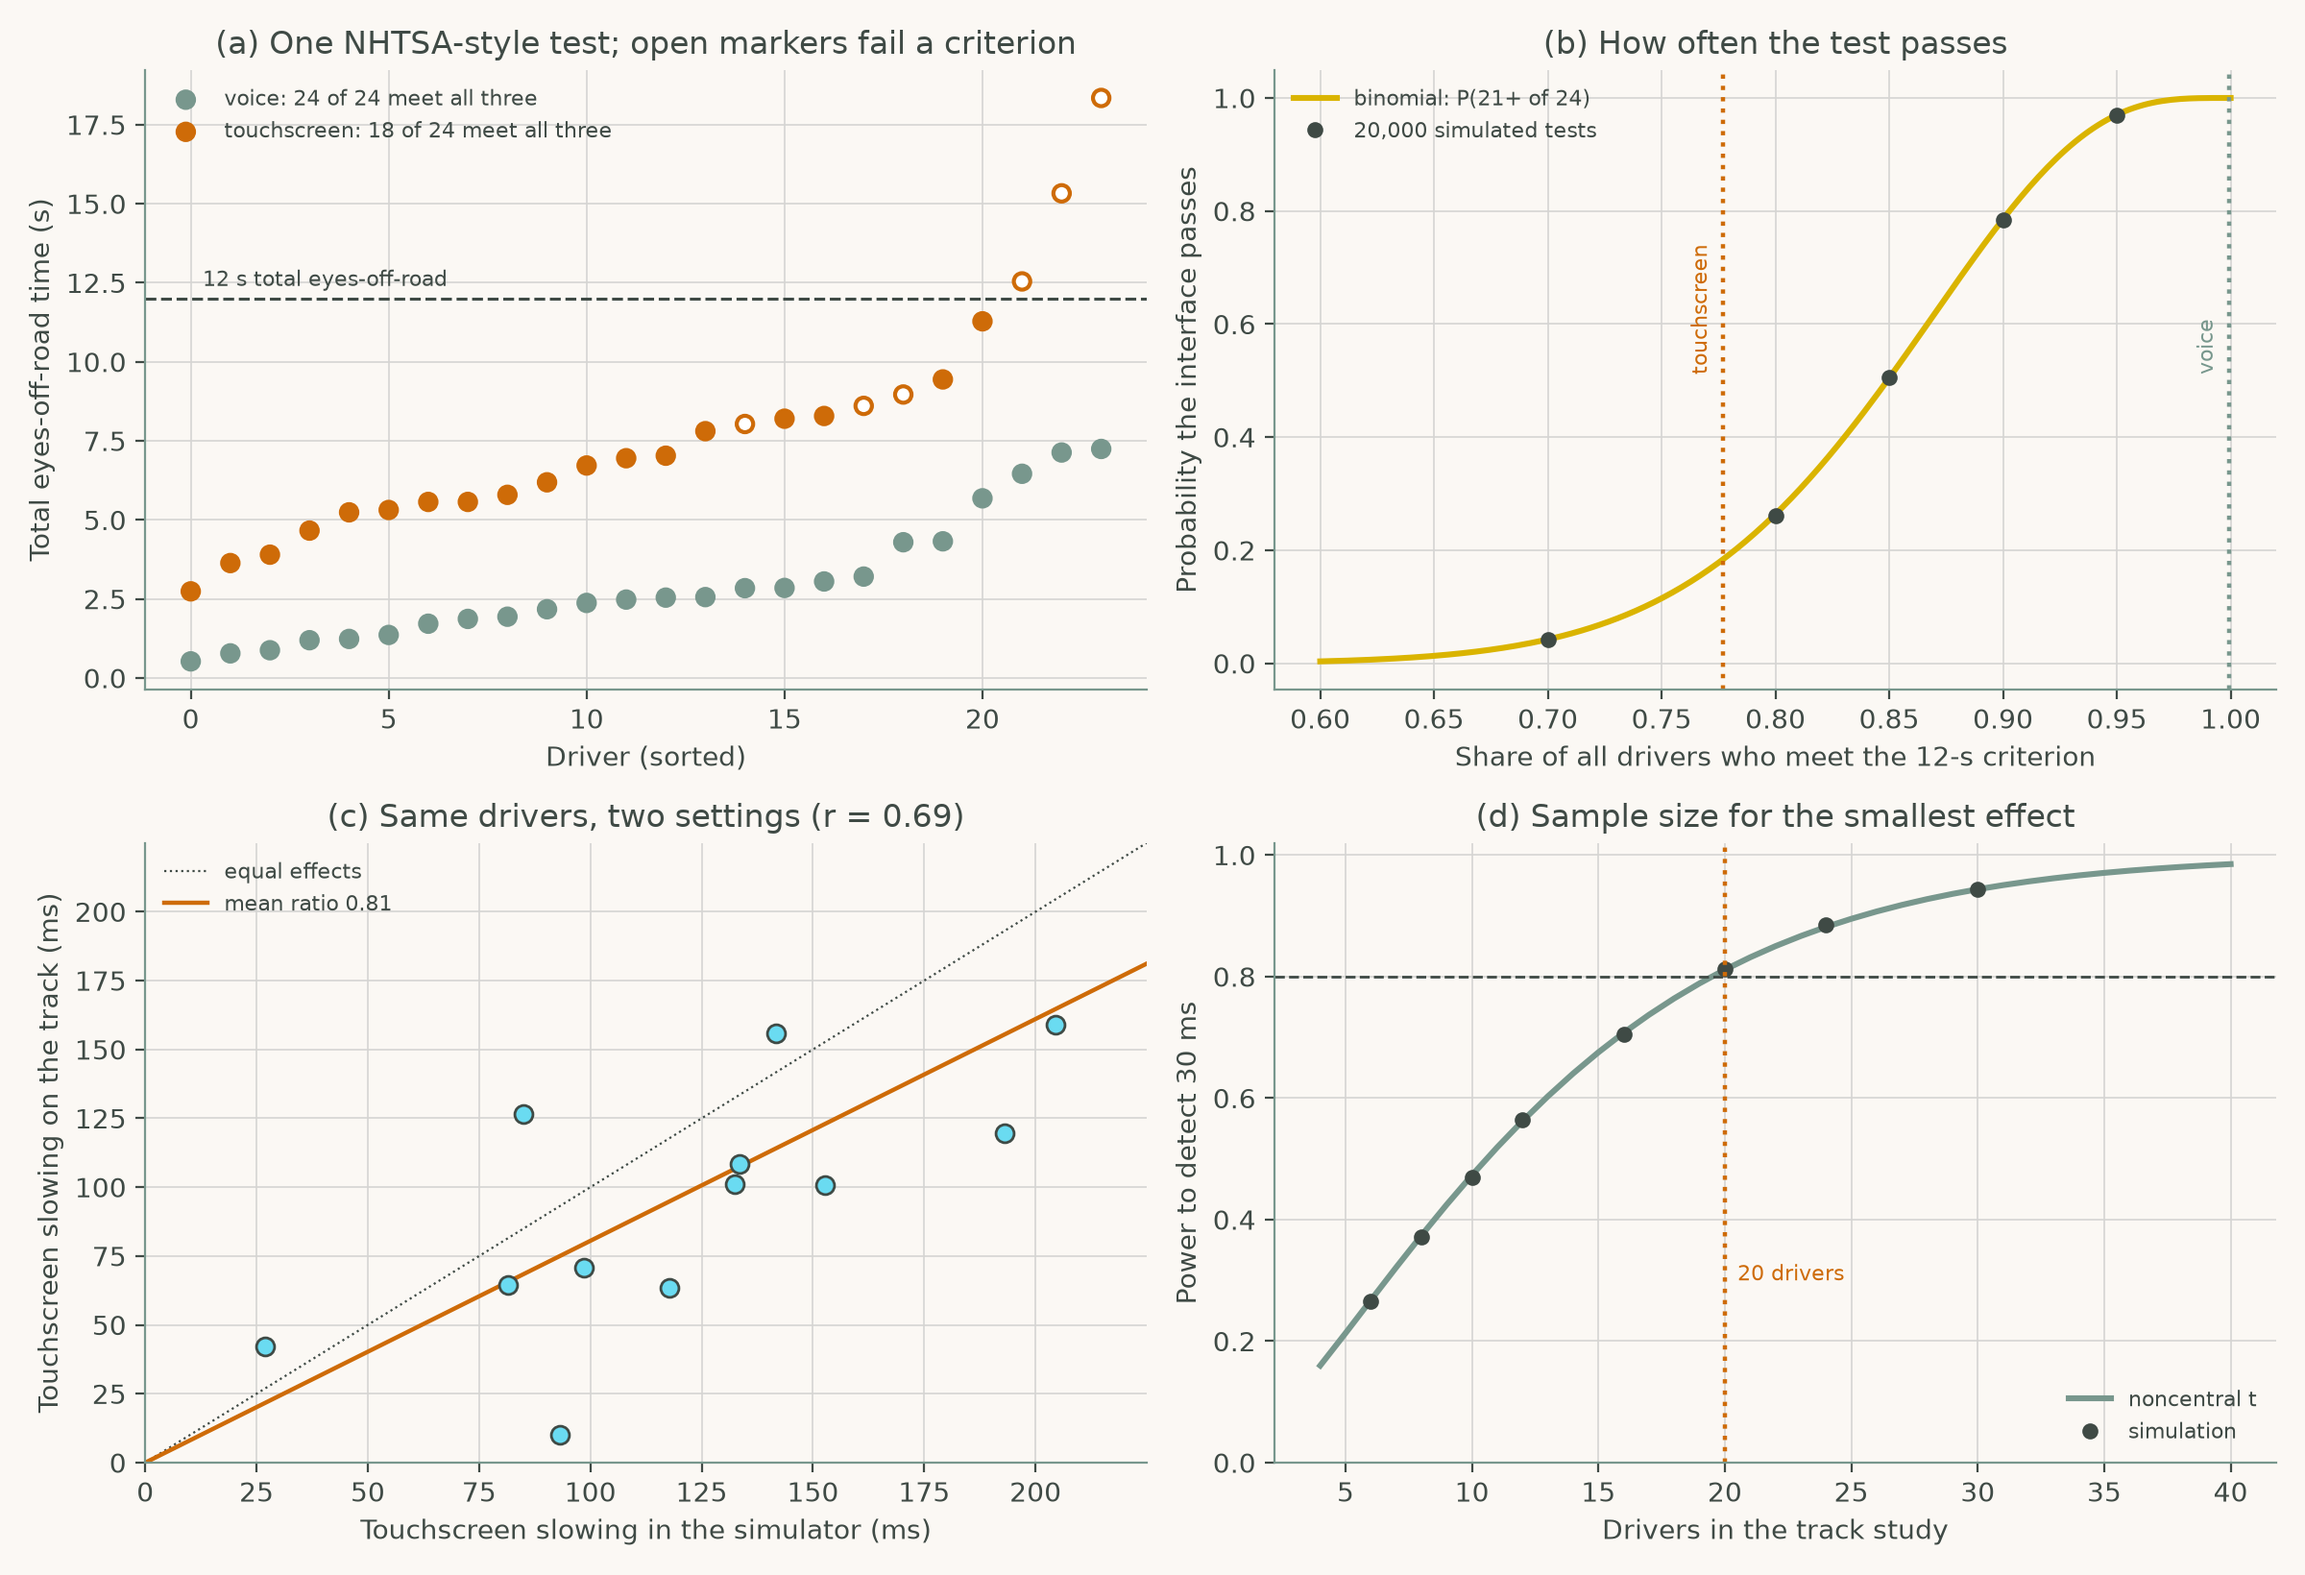
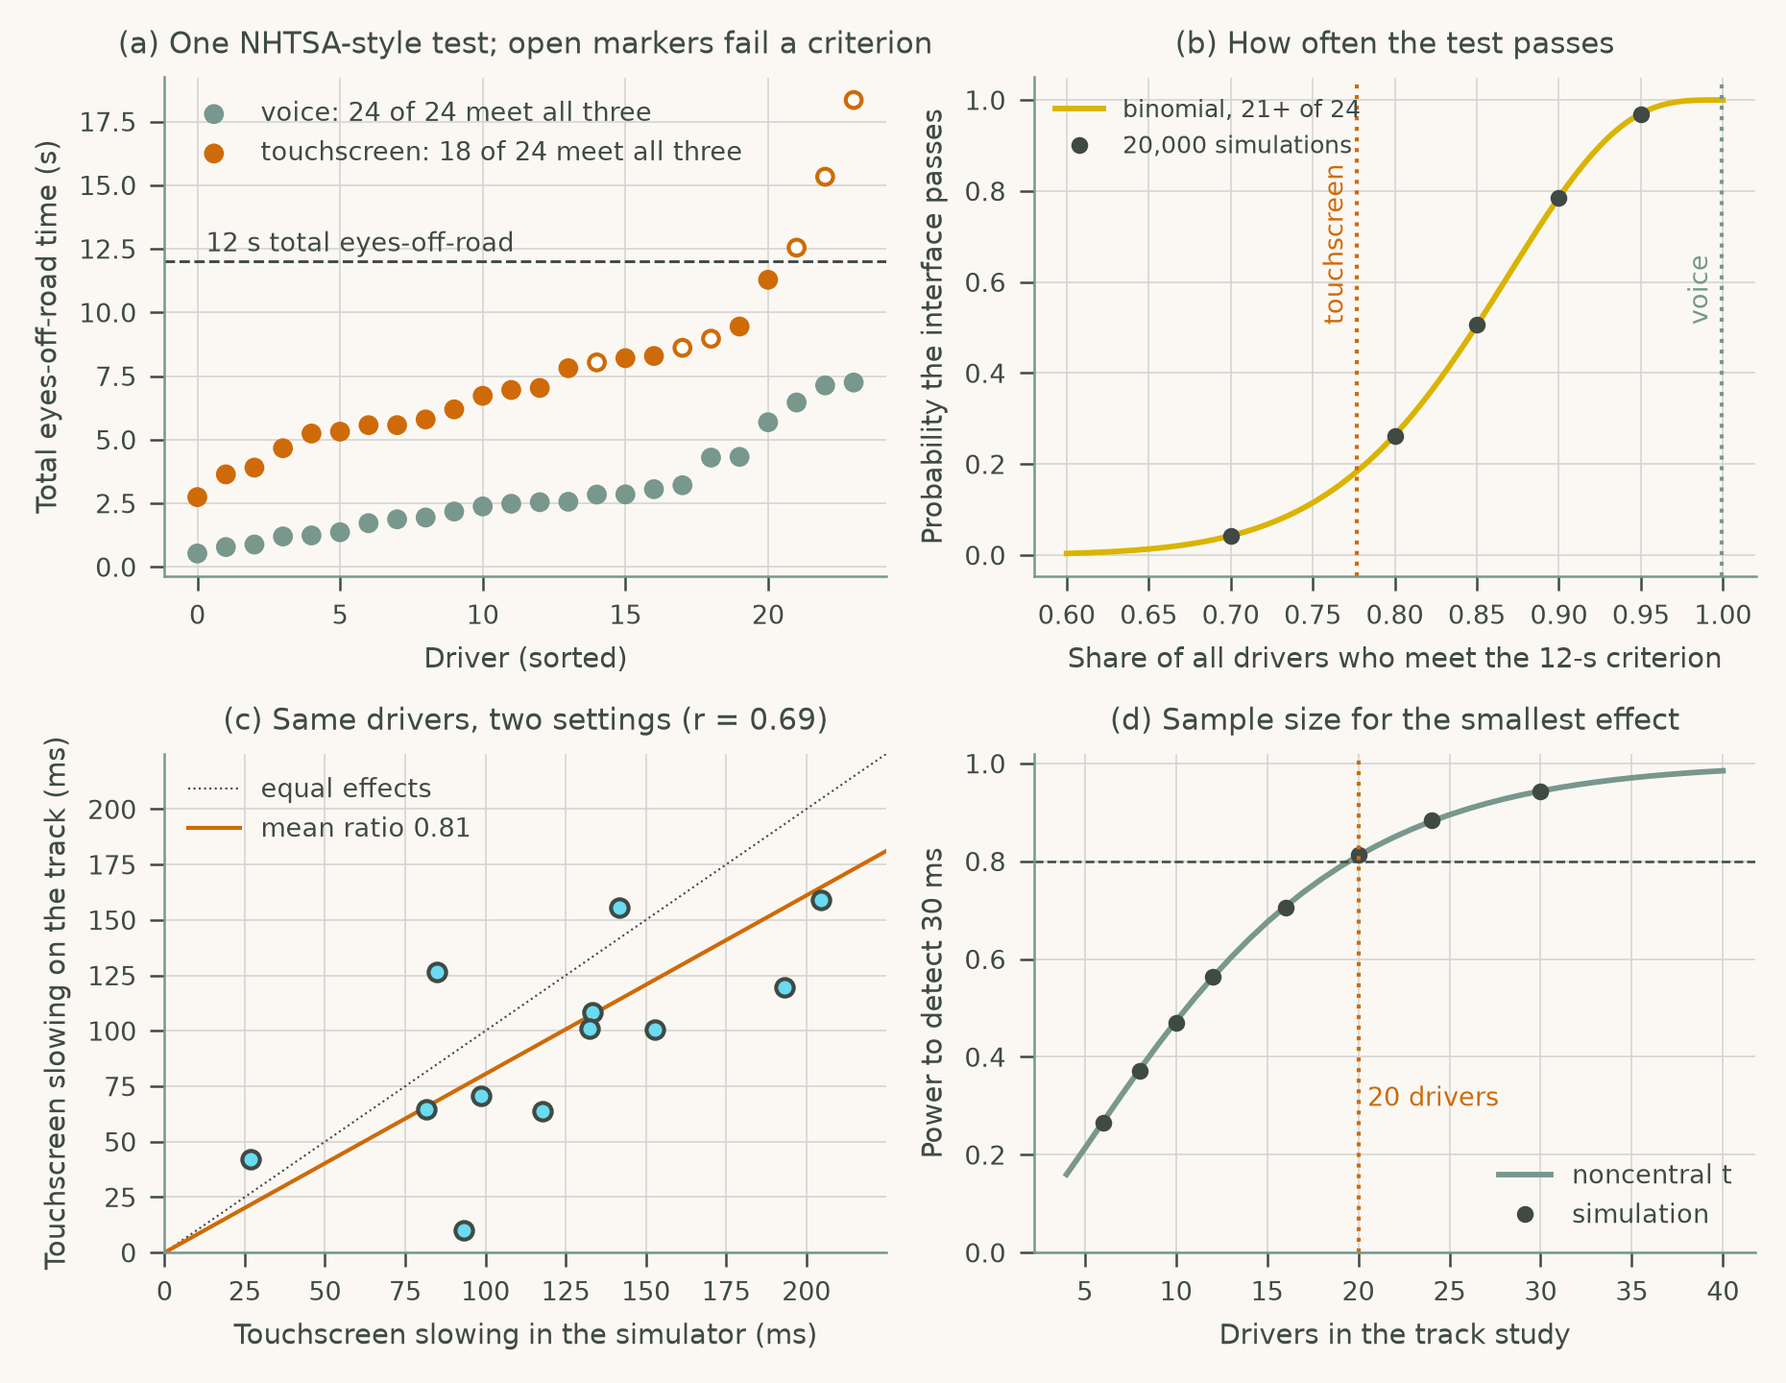
Redraw Chapter 10 figures at print size with readable type

diff --git a/chapters/ch10_evaluation_methods/cs1_simulator_field.py b/chapters/ch10_evaluation_methods/cs1_simulator_field.py
@@ -162,52 +162,56 @@ plt.rcParams.update({
     "xtick.color": INK, "ytick.color": INK,
     "figure.facecolor": PAPER, "axes.facecolor": PAPER,
     "axes.spines.top": False, "axes.spines.right": False,
-    "axes.grid": True, "grid.color": GRID, "grid.linewidth": 0.6})
-fig, ax = plt.subplots(2, 2, figsize=(12, 8.2))
+    "axes.grid": True, "grid.color": GRID, "grid.linewidth": 0.4,
+    "font.size": 7, "axes.titlesize": 7.5, "axes.labelsize": 7, "legend.fontsize": 6.5,
+    "xtick.labelsize": 6.5, "ytick.labelsize": 6.5, "axes.linewidth": 0.6,
+    "xtick.major.width": 0.6, "ytick.major.width": 0.6, "lines.linewidth": 1.2,
+    "legend.frameon": False})
+fig, ax = plt.subplots(2, 2, figsize=(6.2, 4.8))
 a = ax[0, 0]                                                   # (a) one 24-driver test
 for k, (h, c) in enumerate([("voice", SAGE), ("touchscreen", RUST)]):
     t = tests[h].sort_values("teort").reset_index(drop=True)
     ok = t.c1 & t.c2 & t.c3
-    a.scatter(np.arange(24), t.teort, s=38, color=np.where(ok, c, "white"), edgecolor=c,
-              lw=1.5, label=f"{h}: {int(ok.sum())} of 24 meet all three", zorder=3)
-a.axhline(12, color=INK, ls="--", lw=1.1)
-a.text(0.3, 12.4, "12 s total eyes-off-road", fontsize=8)
+    a.scatter(np.arange(24), t.teort, s=15.8, color=np.where(ok, c, "white"), edgecolor=c,
+              lw=1, label=f"{h}: {int(ok.sum())} of 24 meet all three", zorder=3)
+a.axhline(12, color=INK, ls="--", lw=0.7)
+a.text(0.3, 12.4, "12 s total eyes-off-road", fontsize=6.5)
 a.set(xlabel="Driver (sorted)", ylabel="Total eyes-off-road time (s)",
       title="(a) One NHTSA-style test; open markers fail a criterion")
-a.legend(fontsize=8, frameon=False, loc="upper left")
+a.legend(fontsize=6.5, loc="upper left")
 # (b) operating characteristic
 a = ax[0, 1]
 qq = np.linspace(0.6, 1.0, 200)
-a.plot(qq, stats.binom.sf(20, 24, qq), color=GOLD, lw=2.2, label="binomial: P(21+ of 24)")
+a.plot(qq, stats.binom.sf(20, 24, qq), color=GOLD, lw=1.4, label="binomial, 21+ of 24")
 for qs in [0.7, 0.8, 0.85, 0.9, 0.95]:
     a.plot(qs, ((rng.random((20_000, 24)) < qs).sum(axis=1) >= 21).mean(), "o", color=INK,
-           ms=5)
-a.plot([], [], "o", color=INK, ms=5, label="20,000 simulated tests")
+           ms=3.2)
+a.plot([], [], "o", color=INK, ms=3.2, label="20,000 simulations")
 for h, c in [("touchscreen", RUST), ("voice", SAGE)]:
-    a.axvline(q[h], color=c, ls=":", lw=1.6)
-    a.text(q[h] - 0.005, 0.52, h, color=c, fontsize=8, rotation=90, ha="right")
+    a.axvline(q[h], color=c, ls=":", lw=1)
+    a.text(q[h] - 0.005, 0.52, h, color=c, fontsize=6.5, rotation=90, ha="right")
 a.set(xlabel="Share of all drivers who meet the 12-s criterion",
       ylabel="Probability the interface passes", title="(b) How often the test passes")
-a.legend(fontsize=8, frameon=False, loc="upper left")
+a.legend(fontsize=6, loc="upper left")
 a = ax[1, 0]                                                   # (c) relative validity
-a.scatter(e_sim * 1000, e_trk * 1000, s=46, color=SKY, edgecolor=INK, zorder=3)
+a.scatter(e_sim * 1000, e_trk * 1000, s=19.2, color=SKY, edgecolor=INK, zorder=3)
 lim = [0, 1000 * max(e_sim.max(), e_trk.max()) * 1.1]
-a.plot(lim, lim, color=INK, lw=0.8, ls=":", label="equal effects")
+a.plot(lim, lim, color=INK, lw=0.5, ls=":", label="equal effects")
 ratio = res.paired_diff_s[1] / res.paired_diff_s[0]
-a.plot(lim, np.array(lim) * ratio, color=RUST, lw=1.6,
+a.plot(lim, np.array(lim) * ratio, color=RUST, lw=1,
        label=f"mean ratio {res.paired_diff_s[1] / res.paired_diff_s[0]:.2f}")
 a.set(xlim=lim, ylim=lim, xlabel="Touchscreen slowing in the simulator (ms)",
       ylabel="Touchscreen slowing on the track (ms)",
       title=f"(c) Same drivers, two settings (r = {r:.2f})")
-a.legend(fontsize=8, frameon=False, loc="upper left")
+a.legend(fontsize=6.5, loc="upper left")
 a = ax[1, 1]                                                   # (d) power
 nn = np.arange(4, 41)
-a.plot(nn, [power_exact(n) for n in nn], color=SAGE, lw=2.2, label="noncentral t")
-a.plot(pw.drivers, pw.power_simulated, "o", color=INK, ms=5, label="simulation")
-a.axhline(0.8, color=INK, ls="--", lw=1)
-a.axvline(n80, color=RUST, ls=":", lw=1.6)
-a.text(n80 + 0.5, 0.3, f"{n80} drivers", color=RUST, fontsize=8)
+a.plot(nn, [power_exact(n) for n in nn], color=SAGE, lw=1.4, label="noncentral t")
+a.plot(pw.drivers, pw.power_simulated, "o", color=INK, ms=3.2, label="simulation")
+a.axhline(0.8, color=INK, ls="--", lw=0.6)
+a.axvline(n80, color=RUST, ls=":", lw=1)
+a.text(n80 + 0.5, 0.3, f"{n80} drivers", color=RUST, fontsize=6.5)
 a.set(ylim=(0, 1.02), xlabel="Drivers in the track study",
       ylabel="Power to detect 30 ms", title="(d) Sample size for the smallest effect")
-a.legend(fontsize=8, frameon=False, loc="lower right")
-fig.tight_layout(); fig.savefig("chap10_fig01_sim_field.png", dpi=200)
+a.legend(fontsize=6.5, loc="lower right")
+fig.tight_layout(); fig.savefig("chap10_fig01_sim_field.png", dpi=300)

diff --git a/chapters/ch10_evaluation_methods/cs2_nds_claims.py b/chapters/ch10_evaluation_methods/cs2_nds_claims.py
@@ -152,8 +152,12 @@ plt.rcParams.update({
     "xtick.color": INK, "ytick.color": INK,
     "figure.facecolor": PAPER, "axes.facecolor": PAPER,
     "axes.spines.top": False, "axes.spines.right": False,
-    "axes.grid": True, "grid.color": GRID, "grid.linewidth": 0.6})
-fig = plt.figure(figsize=(13, 8.4))
+    "axes.grid": True, "grid.color": GRID, "grid.linewidth": 0.4,
+    "font.size": 7, "axes.titlesize": 7.5, "axes.labelsize": 7, "legend.fontsize": 6.5,
+    "xtick.labelsize": 6.5, "ytick.labelsize": 6.5, "axes.linewidth": 0.6,
+    "xtick.major.width": 0.6, "ytick.major.width": 0.6, "lines.linewidth": 1.2,
+    "legend.frameon": False})
+fig = plt.figure(figsize=(6.2, 5.4))
 gs = fig.add_gridspec(2, 2, height_ratios=[1.15, 1], hspace=0.42, wspace=0.28)
 a0 = fig.add_subplot(gs[0, :])
 a1, a2 = fig.add_subplot(gs[1, 0]), fig.add_subplot(gs[1, 1])
@@ -171,17 +175,18 @@ est = [("Crude, case-control sample", crude[0], crude[1], crude[2], RUST),
 y = np.arange(len(est))[::-1].astype(float)
 y[4:] -= 0.6
 for yy, (lab, e, lo_, hi_, c) in zip(y, est):                     # (a) forest plot
-    a0.plot([lo_, hi_], [yy, yy], color=c, lw=2.4, solid_capstyle="round")
-    a0.plot(e, yy, "o", color=c, mec=INK, ms=7)
-    a0.text(0.97, yy, lab, ha="right", va="center", fontsize=8.5)
-a0.axvline(3.5, color=INK, ls="--", lw=1.1)
-a0.text(3.42, y[0] + 0.55, "true OR, phone vs no task (3.5)", fontsize=8, ha="right")
-a0.axvline(or_true, color=INK, ls=":", lw=1.1)
+    a0.plot([lo_, hi_], [yy, yy], color=c, lw=1.4, solid_capstyle="round")
+    a0.plot(e, yy, "o", color=c, mec=INK, ms=4.2)
+    a0.text(0.97, yy, lab, ha="right", va="center", fontsize=6.5)
+a0.axvline(3.5, color=INK, ls="--", lw=0.7)
+a0.text(3.42, y[0] + 0.55, "true OR, phone vs no task (3.5)", fontsize=6.5, ha="right")
+a0.axvline(or_true, color=INK, ls=":", lw=0.7)
 a0.text(or_true * 1.04, y[-1] - 0.75,
         f"human-coded OR, phone vs all other ({or_true:.2f})",
-        fontsize=8, ha="left")
+        fontsize=6.5, ha="left")
 a0.set_xscale("log")
 a0.set_xticks([1, 2, 3, 4, 6, 10, 16], ["1", "2", "3", "4", "6", "10", "16"])
+a0.spines["left"].set_visible(False)
 a0.set(xlim=(0.35, 20), ylim=(y[-1] - 1.1, y[0] + 1.0), yticks=[],
        xlabel="Odds ratio for visual-manual phone use (log scale)",
        title="(a) The same question, seven estimates")
@@ -189,18 +194,19 @@ sp_grid = np.linspace(0.80, 1.0, 200)                              # (b) attenua
 q1, q0 = truth[case].mean(), truth[~case].mean()
 for se_, c in [(0.85, RUST), (0.95, SAGE)]:
     o1, o0 = se_ * q1 + (1 - sp_grid) * (1 - q1), se_ * q0 + (1 - sp_grid) * (1 - q0)
-    a1.plot(sp_grid, o1 / (1 - o1) / (o0 / (1 - o0)), color=c, lw=2,
+    a1.plot(sp_grid, o1 / (1 - o1) / (o0 / (1 - o0)), color=c, lw=1.2,
             label=f"sensitivity {se_:.2f}")
-a1.plot(SP_AI, or_naive, "D", color=INK, ms=7, label="simulated AI coder")
-a1.axhline(or_true, color=INK, ls=":", lw=1.1)
+a1.plot(SP_AI, or_naive, "D", color=INK, ms=4.2, label="simulated AI coder")
+a1.axhline(or_true, color=INK, ls=":", lw=0.7)
 a1.set(xlabel="Specificity of the AI coder", ylabel="Uncorrected odds ratio",
        title="(b) Coding errors pull the OR toward 1")
-a1.legend(fontsize=8, frameon=False, loc="upper left")
+a1.legend(fontsize=6.5, loc="center left")
 a2.hist(np.array(bp) * 0.5 * 100, bins=40, color=SKY, edgecolor="white")  # (c) the claim
-for v, c, lab in [(half, INK, "exact"), (0.5 * paf_miettinen, SAGE, "Miettinen, adjusted"),
+for v, c, lab in [(half, INK, "exact"), (0.5 * paf_miettinen, SAGE, "Miettinen, adj."),
                   (0.5 * paf_levin, RUST, "Levin, crude")]:
-    a2.axvline(v * 100, color=c, lw=2, ls="--" if lab == "exact" else "-", label=lab)
+    a2.axvline(v * 100, ymax=0.74, color=c, lw=1.2, ls="--" if lab == "exact" else "-", label=lab)
 a2.set(xlabel="Events prevented by halving phone use (%)", ylabel="Bootstrap replicates",
        title="(c) A claim with its uncertainty")
-a2.legend(fontsize=8, frameon=False, loc="upper right")
-fig.savefig("chap10_fig02_nds_claims.png", dpi=200, bbox_inches="tight")
+a2.set_ylim(0, a2.get_ylim()[1] * 1.3)
+a2.legend(fontsize=6.5, loc="upper left")
+fig.savefig("chap10_fig02_nds_claims.png", dpi=300, bbox_inches="tight")
